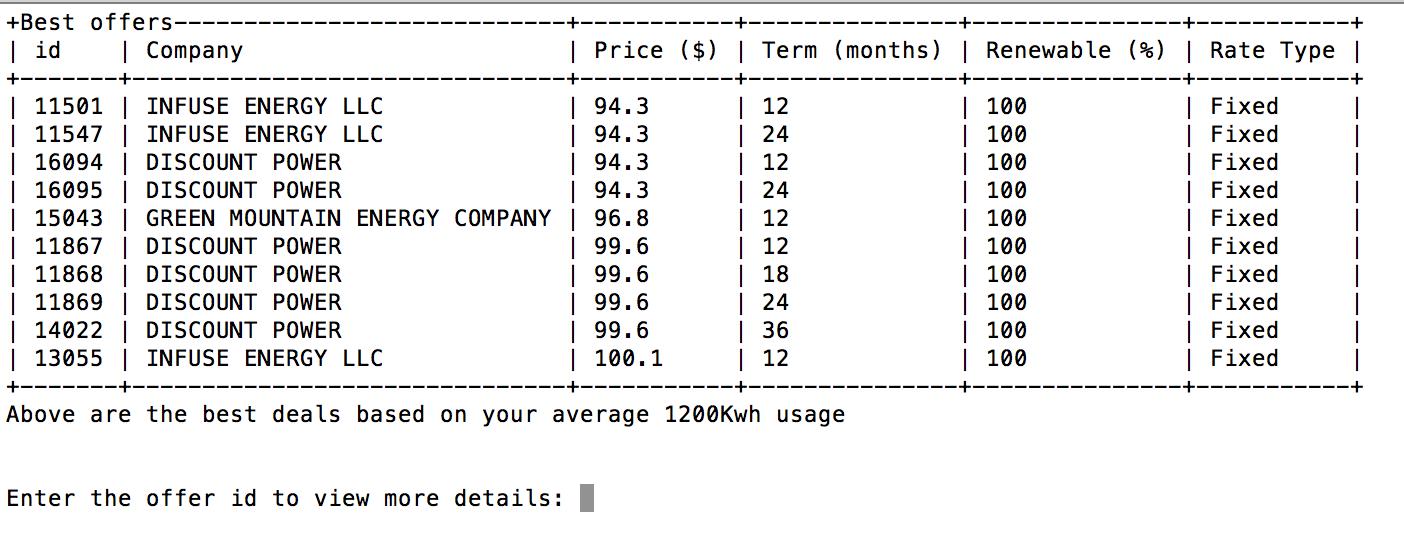
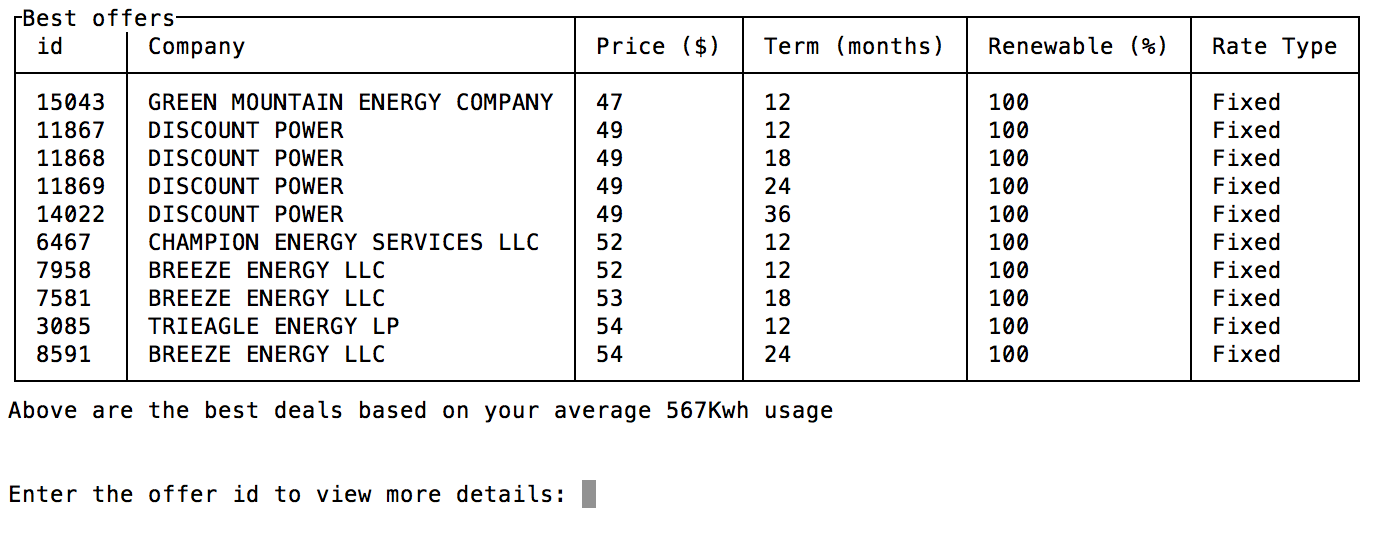
add some loops

Changed region(s): [[0.0, 0.0, 1.0, 0.803], [0.0, 0.8625, 0.4337, 0.9517]]

diff --git a/mypower.py b/mypower.py
@@ -4,7 +4,8 @@ import sys
 import csv
 import datetime
 from databasemanager import DatabaseManager
-from terminaltables import AsciiTable
+from terminaltables import SingleTable
+import textwrap
 import urllib.request
 
 def clear():
@@ -38,6 +39,7 @@ def dbBuild():
 
 def dbCheck():
   """Shows last time data was downloaded from Power To Choose and gives option to update"""
+  clear()
   if os.path.isfile('mypower.csv'):
     csv_last_download = datetime.datetime.fromtimestamp(os.stat('mypower.csv').st_mtime)
     print ("This database was last updated from Power to Choose at {}\n\n".format(csv_last_download))
@@ -95,9 +97,13 @@ def user_input(TDU):
 
 def menu():
   clear()
-  print("""
-Welcome to MyPowerToChoose a script which makes finding the best deal on power easier than every. This program will weed out the misleading utility ads commonly seen on powertochoose.org.
-""")
+  print("##################################")
+  print("MyPower 1.0")
+  print("################################## \n")
+  print ("\n".join(textwrap.wrap("""Welcome to MyPower, a program which allows you to easily find the best deal when it comes to electricity. Simply input your average monthly power usage and then compare availbe offers by their estimated average monthly cost.
+""", 50)))
+
+  input("\n\nPress enter to continue: ")
 
 def avgprice(USER):
   dbmgr = DatabaseManager("mypower.db")
@@ -113,13 +119,13 @@ def avgprice(USER):
     idkey = row[0]
 
     if USER["usage"] >= 1000:
-      price = ((USER["usage"]-1000) * kwh2000) + (500 * kwh1000) + (500 * kwh500)
+      price = round(((USER["usage"]-1000) * kwh2000) + (500 * kwh1000) + (500 * kwh500), 0)
 
     elif USER["usage"] >= 500:
-      price = ((USER["usage"]-500) * kwh1000) + (500 * kwh500)
+      price = round(((USER["usage"]-500) * kwh1000) + (500 * kwh500), 0)
 
     else:
-      price = USER["usage"] * kwh500
+      price = round(USER["usage"] * kwh500, 0)
 
     t = (idkey, price)
     dbmgr.query('INSERT INTO user VALUES (?, ?)', t)
@@ -151,11 +157,11 @@ def view_offers(USER):
   offer_ids = []
   data.append(['id', 'Company', 'Price ($)', 'Term (months)', 'Renewable (%)', 'Rate Type'])
 
-  for row in dbmgr.query('SELECT offers.idKey, offers.RepCompany, user.avgPrice, offers.TermValue, offers.Renewable, offers.RateType FROM offers INNER JOIN user ON offers.idKey = user.idKey WHERE offers.TduCompanyName=? AND offers.TermValue >=? AND offers.Renewable >=? ORDER BY user.avgPrice ASC LIMIT 10', (USER["tdu"], USER["contract term"], USER["renewable"])):
+  for row in dbmgr.query('SELECT offers.idKey, offers.RepCompany, user.avgPrice, offers.TermValue, offers.Renewable, offers.RateType FROM offers INNER JOIN user ON offers.idKey = user.idKey WHERE offers.TduCompanyName=? AND offers.TermValue >=? AND offers.Renewable >=? AND offers.MinUsageFeesCredits = ? ORDER BY user.avgPrice ASC LIMIT 10', (USER["tdu"], USER["contract term"], USER["renewable"], 'FALSE') ):
     data.append([row[0], row[1], row[2], row[3], row[4], row[5] ])
     offer_ids.append(row[0])
 
-  table = AsciiTable(data, title="Best offers")
+  table = SingleTable(data, title="Best offers")
   print (table.table)
   print ("Above are the best deals based on your average {}Kwh usage\n\n".format(USER["usage"]))
   return offer_ids
@@ -163,6 +169,7 @@ def view_offers(USER):
 
 def offer_details(OFFER_IDS):
   dbmgr = DatabaseManager("mypower.db")
+  data = []
 
   while True:
     try:
@@ -179,25 +186,34 @@ def offer_details(OFFER_IDS):
         print("Offer ID {} is not a valid selection".format(selected_offer))
 
   clear()
-  print ("""
-  OFFER DETAILS
-  _________________________
-  Plan name: {}  (ID #: {})
-  Company: {}
-  Average monthly price*: ${} (500Kwh: ${}   1000Kwh: ${}   2000Kwh: ${})
-  Fees/Credits: {}
-  Contract length: {} months
-  Details: {}
-  Enroll: {}
-  (Cmd + double-click to open urls)
-         """.format(offer[0], offer[1], offer[2], offer[3], offer[4], offer[5], offer[6], offer[7], offer[8], offer[9], offer[10]))
+  data.append(['Plan #{}'.format(offer[1]), '{}'.format(offer[0]) ])
+  data.append(['Company', offer[2] ])
+  data.append(['Estimated Monthly Bill', '${}'.format(offer[3])])
+  data.append(['Price breakdown', '[500Kwh: ${}]  [1000Kwh: ${}]  [2000Kwh: ${}]'.format(offer[4], offer[5], offer[6])])
+  data.append(['Contract Length', '{} months'.format(offer[8]) ])
+  table = SingleTable(data, title="Plan details")
+  table.justify_columns[1] = 'left'
+  print (table.table)
+  print('Details: {}'.format(offer[9]))
+  print('Enroll: {}'.format(offer[10]))
+  print ('\n(Cmd + double-click to open urls)\n\n')
+
+  choice = input("Press any key to return to your offers or 'q' to quit: ").lower()
+  clear()
+
+  if choice == 'q':
+    return False
+  else:
+    return True
 
 if __name__ == '__main__':
+  active = True
   menu()
   dbCheck()
   tdu_choices = build_tdu()
   preferences = user_input(tdu_choices)
   avgprice(preferences)
-  offer_ids = view_offers(preferences)
-  offer_details(offer_ids)
+  while active == True:
+    offer_ids = view_offers(preferences)
+    active = offer_details(offer_ids)
 
